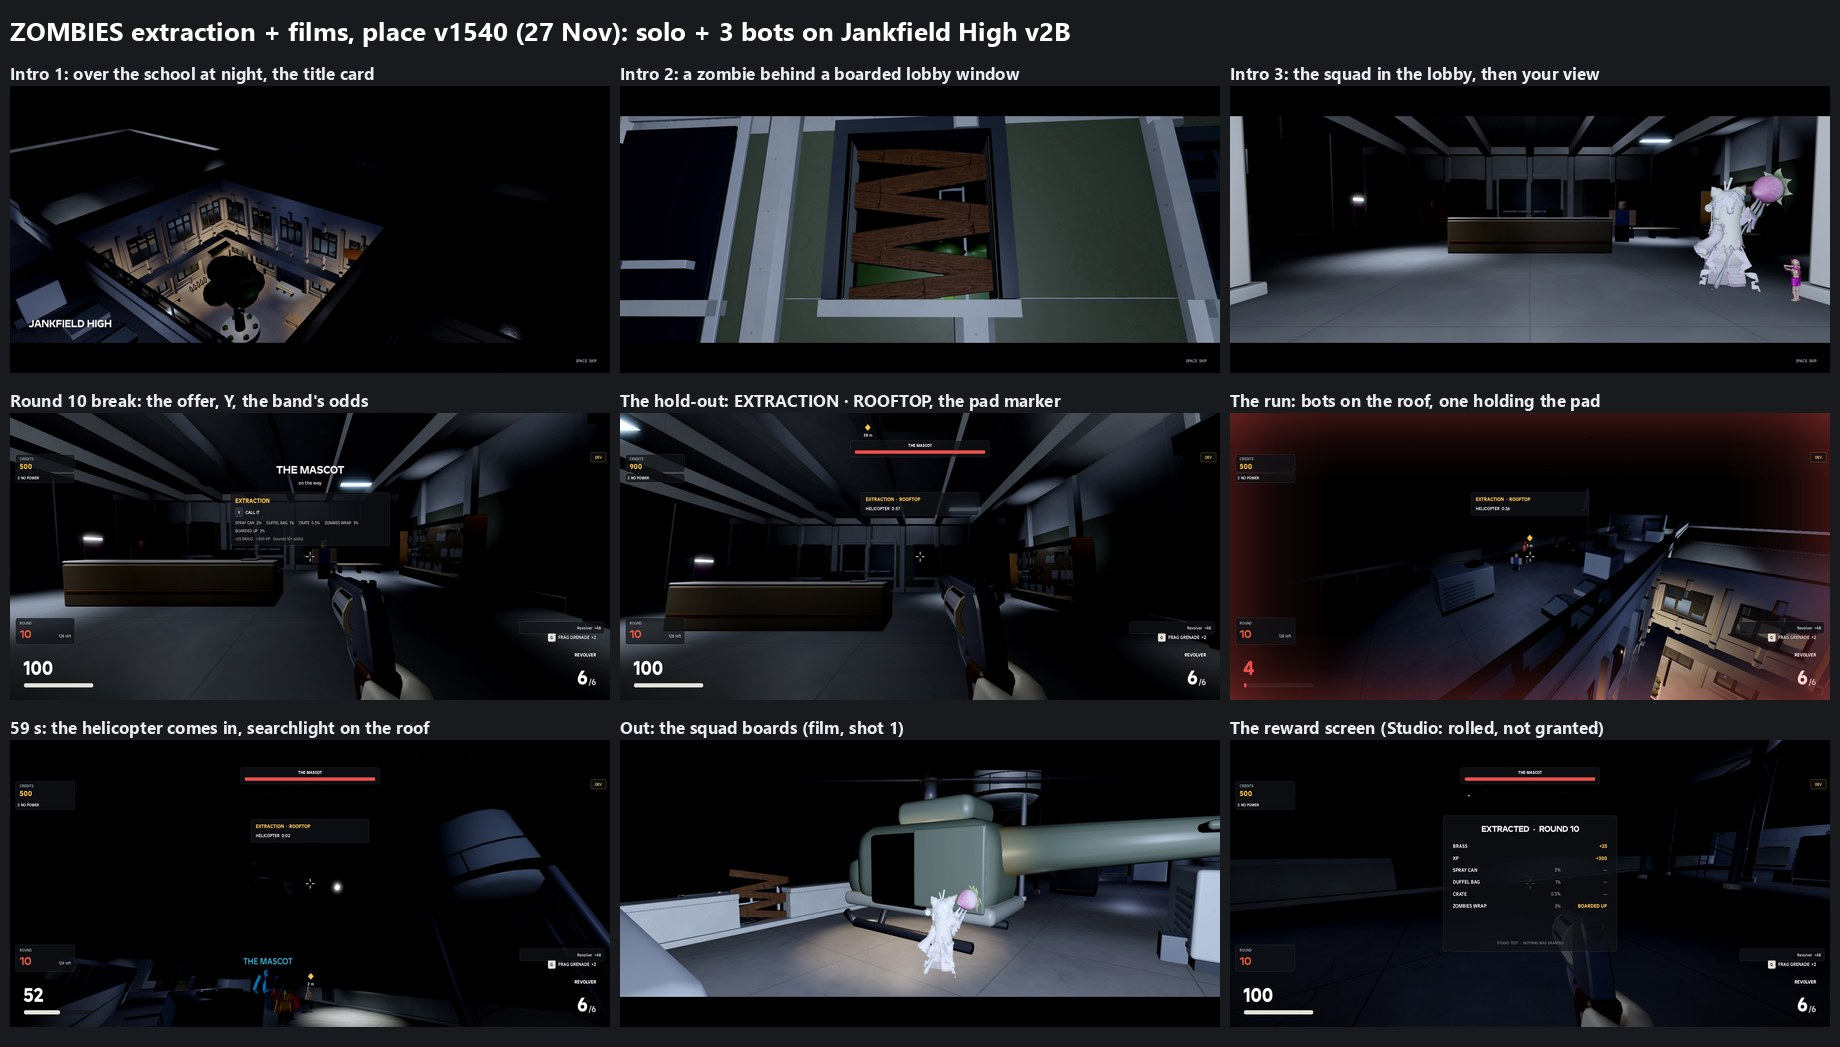
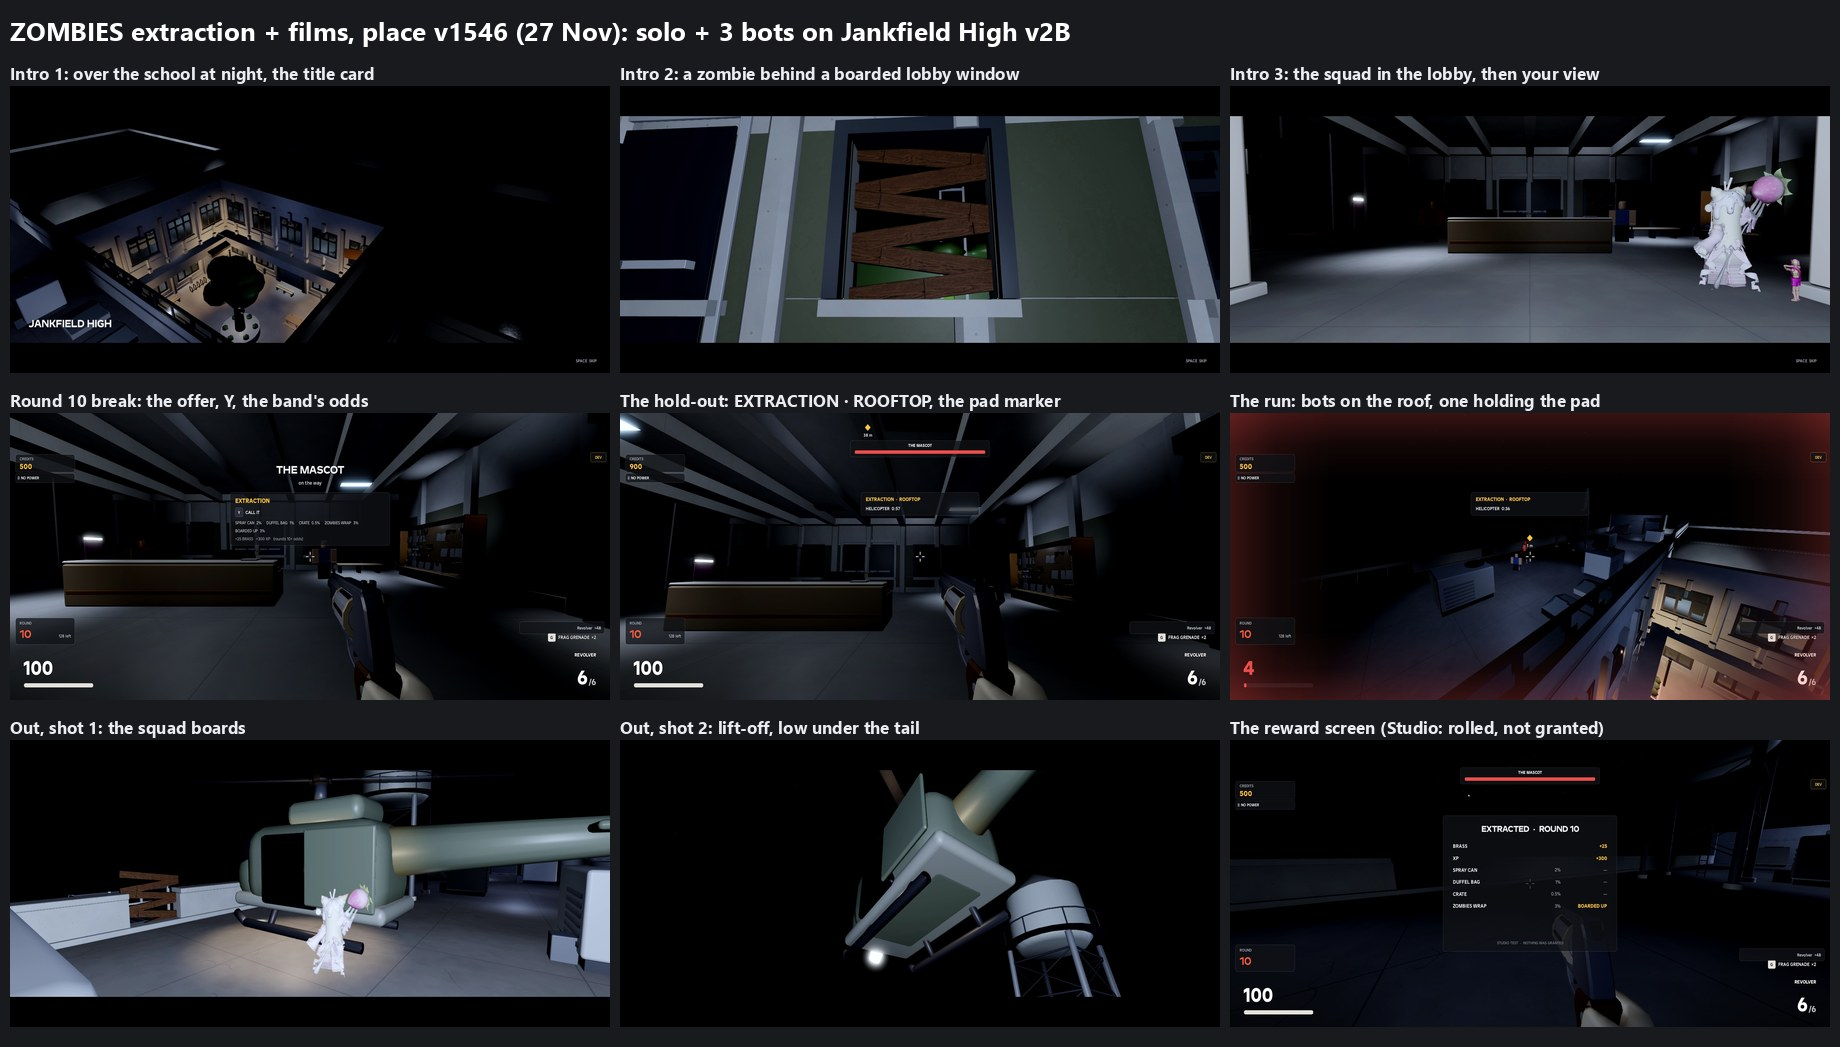
Roblox zombies: the extraction film's cameras in Studio (v1546), a new wind loop for the films (the first was rejected by moderation), the sheet
- v1546: the outro's lift shot (from west of the tail, the water tower behind) and the away shot (a long lens from over
  the courtyard's edge) replace the lens inside the HVAC unit and the black far shot.
- zm_wind: Freesound 117136's upload was rejected by Roblox moderation (no warning on the account, the owner checked);
  the licensed library has no natural wind. One retry: a 15.5 s loop of Freesound 521820 "Polar Wind" (asset
  75933475633293, in review). Studio's zm_wind is silent until it passes; no third upload.
- roblox/docs/zombies/9-extraction-27nov.jpg: the intro's three shots, the offer, the hold-out, the run, boarding,
  lift-off and the reward screen.

Changed region(s): [[0.0, 0.7335, 0.6815, 1.0], [0.0, 0.6724, 0.2478, 0.703], [0.3408, 0.6724, 0.4957, 0.703]]

diff --git a/roblox/assets/sounds/freesound-credits.md b/roblox/assets/sounds/freesound-credits.md
@@ -36,6 +36,7 @@
 - 383828: "Opening Old Garage Door" by deleted_user_7146007, https://freesound.org/people/deleted_user_7146007/sounds/383828/ (CC0): zm_door (1.1-4.9 s), zombies shutter roll, 26 Nov 2026
 - 484157: "fluorescent light flickering 1.wav" by TemperMode, https://freesound.org/people/TemperMode/sounds/484157/ (CC0): zm_flicker (2.86-4.30 s, 0.62-1.40 s), the school's flickering lamps, 26 Nov 2026
 - 548340: "helicopter hovering (close)" by thegreatbelow, https://freesound.org/people/thegreatbelow/sounds/548340/ (CC0): zm_heli (2.0-58.0 s, looped), the zombies extraction helicopter, 27 Nov 2026
-- 117136: "Wind__Artic__Cold.wav" by cobratronik, https://freesound.org/people/cobratronik/sounds/117136/ (CC0): zm_wind (2.0-56.0 s, looped), the zombies films' night wind, 27 Nov 2026
+- 117136: "Wind__Artic__Cold.wav" by cobratronik, https://freesound.org/people/cobratronik/sounds/117136/ (CC0): was zm_wind; the upload (92733128069476) was REJECTED by Roblox moderation on 27 Nov 2026 and is not used
+- 521820: "Polar Wind" by Fission9, https://freesound.org/people/Fission9/sounds/521820/ (CC0): zm_wind (41.5-57.0 s, a loop), the zombies films' night wind, 27 Nov 2026
 - 325274: "Wood impact 2.wav" by deleted_user_2104797, https://freesound.org/people/deleted_user_2104797/sounds/325274/ (CC0): zm_board (0.46-1.55 s), a zombie hitting a boarded window in the intro, 27 Nov 2026
 - 478238: "Planks Clattering" by Fission9, https://freesound.org/people/Fission9/sounds/478238/ (CC0): zm_planks (0.06-1.70 s), a plank falling in the intro, 27 Nov 2026

diff --git a/roblox/docs/ZOMBIES.md b/roblox/docs/ZOMBIES.md
@@ -380,6 +380,11 @@ To pin down (likely Roblox's default Animate on the bot or zombie rigs); fixed o
   - The helicopter read as black on the night sky: lighter muted paint, a warm light in its open side, and a soft key
     light that rides with the film's camera.
 - **Still open:**
-  - zm_wind was still in Roblox's moderation during the test ("not approved"), so the first intro clip has no wind.
+  - zm_wind: the first upload (Freesound 117136) was REJECTED by Roblox moderation ("violations of Roblox Terms of Use";
+    no warning on the account, the owner checked). The licensed library has no natural wind (synth drones only). The
+    one retry: a 15.5 s loop of Freesound 521820 "Polar Wind" (asset 75933475633293). If that's rejected too, the films
+    go without a wind bed (no third upload). The clips so far have no wind.
+  - v1546: the outro's lift and away cameras are in (the lift from west of the tail, the water tower behind; the away
+    shot a long lens from over the courtyard's edge).
   - Testing a downed player teleported to the roof left the bots trying to revive at the old spot (a test artifact
     or a real nav gap: to check).
